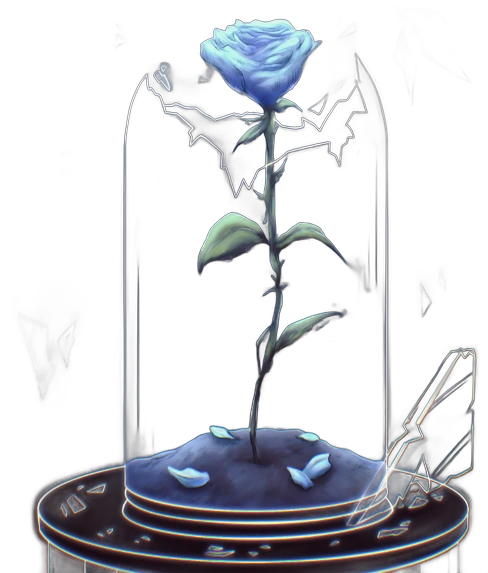
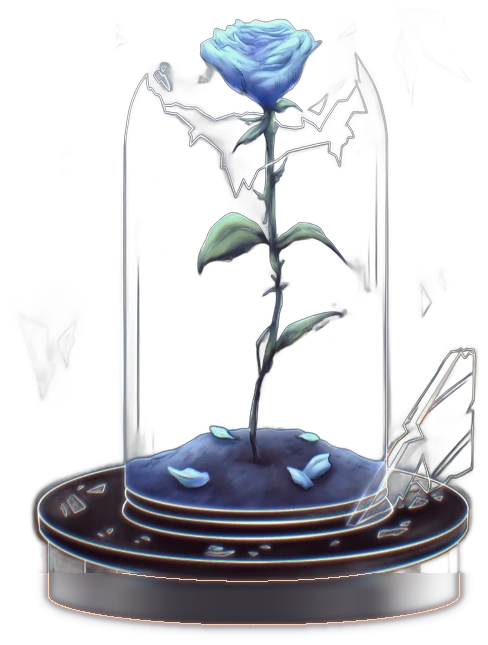
Redoma da página inicial com o pedestal completo (a imagem terminava cortada embaixo)

diff --git a/css/inicio.css b/css/inicio.css
@@ -166,7 +166,7 @@ html[data-theme="light"] .ini-rosa { opacity: .22; }
 @keyframes lx-sobe { to { opacity: 1; transform: none; } }
 
 .lx-hero-arte { position: relative; display: flex; justify-content: center; }
-.lx-redoma { position: relative; width: min(100%, 470px); aspect-ratio: 488 / 573; transform-origin: 50% 85%; will-change: transform; }
+.lx-redoma { position: relative; width: min(100%, 470px); aspect-ratio: 488 / 645; transform-origin: 50% 85%; will-change: transform; }
 .lx-redoma img { position: relative; z-index: 2; display: block; width: 100%; height: auto; opacity: 0; transform: translateY(30px) scale(.96); filter: blur(12px); animation: lx-surge 2.2s cubic-bezier(.16, 1, .3, 1) .2s forwards; }
 @keyframes lx-surge { to { opacity: 1; transform: none; filter: drop-shadow(0 30px 60px rgba(0, 0, 0, .8)); } }
 /* aura azul atrás da rosa, respirando */

diff --git a/index.html b/index.html
@@ -84,7 +84,7 @@
       </div>
       <div class="lx-hero-arte"><div class="lx-redoma" role="img" aria-label="Rosa azul da Blue Rose dentro de uma redoma de vidro">
         <span class="lx-aura" aria-hidden="true"></span><span class="lx-feixe" aria-hidden="true"></span>
-        <img src="img/redoma-rosa.webp" width="488" height="573" alt="" fetchpriority="high">
+        <img src="img/redoma-rosa.webp" width="488" height="645" alt="" fetchpriority="high">
         <span class="lx-reflexo" aria-hidden="true"></span>
         <span class="lx-poeira" aria-hidden="true"><i></i><i></i><i></i><i></i><i></i><i></i></span>
       </div></div>
